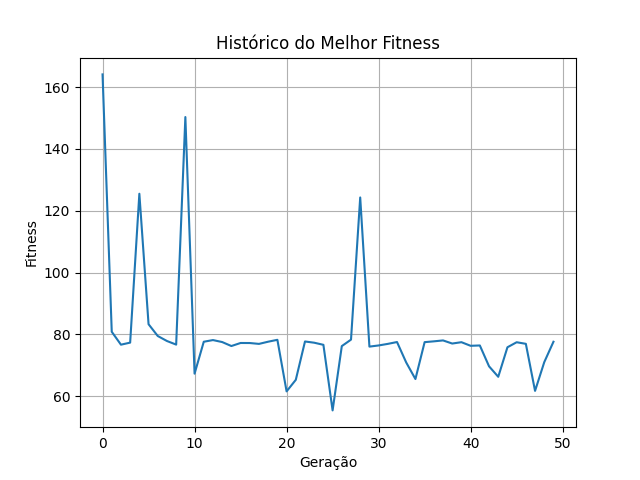
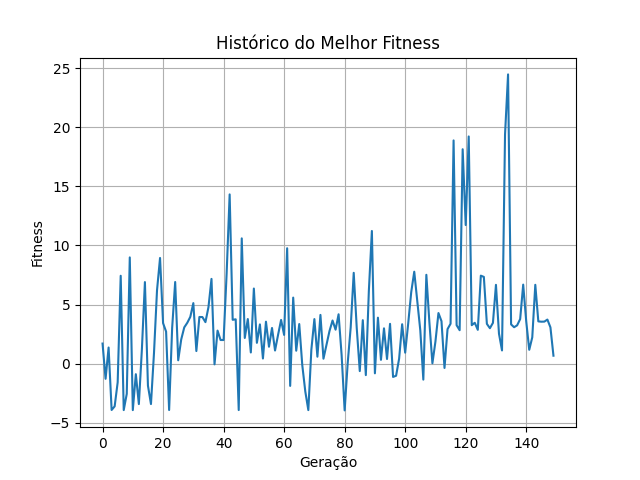
# TODO: O problema é a frequencia que o ep deve terminar. Deve terminar com mais frequência, exemplo;         # Vai sincronizar com o tempo de resposta do agente, em compensação. Isso é gambiarra. kkk

diff --git a/src/sprite.py b/src/sprite.py
@@ -99,9 +99,7 @@ class Agent(Paddle):
 
     def get_direction(self, action=None):
         if action is not None:
-            #self.rect.y += action * self.speed
-            #self.rect.centery += action * self.speed
-            self.direction += action * self.speed
+            self.rect.centery += action * self.speed
 
     def reset(self):
         super().reset(POS['ai'])
@@ -240,18 +238,18 @@ class Ball(pygame.sprite.Sprite):
             self.direction.y *= -1
 
         # out of bounds
-        # if self.rect.right >= WINDOW_WIDTH or self.rect.left <= 0:
-        #     scorer = 'player' if self.rect.x < WINDOW_WIDTH / 2 else 'opponent'
-        #     self.update_score(scorer)
+        if self.rect.right >= WINDOW_WIDTH or self.rect.left <= 0:
+            scorer = 'player' if self.rect.x < WINDOW_WIDTH / 2 else 'opponent'
+            self.update_score(scorer)
+            self.reset()
+
+        # if self.rect.right >= WINDOW_WIDTH:
+        #    self.rect.right = WINDOW_WIDTH
+        #    self.direction.x *= -1
+
+        # if self.rect.left <= 0:
+        #     self.rect.left = 0
         #     self.reset()
-
-        if self.rect.right >= WINDOW_WIDTH:
-           self.rect.right = WINDOW_WIDTH
-           self.direction.x *= -1
-
-        if self.rect.left <= 0:
-            self.rect.left = 0
-            #self.reset()
             # self.direction.x *= -1 # quick left
 
     def reset(self):

diff --git a/src/model/CustomPyEnv.py b/src/model/CustomPyEnv.py
@@ -148,8 +148,13 @@ class CustomPyEnvironment(PyEnvironment):
         distance = self.game.ball.get_distance(self.game.agent) / max_distance
 
         # Penalidade se a bola passa pelo agente
-        if self.game.ball.rect.left <= 0: # TODO: O estado do reinicio termina mais rápido do que o próprio timestep. Ainda não sei bem o porque disto
-            reward -= 3.0  # Penalidade maior
+        # if self.game.ball.rect.left < self.game.agent.rect.right:
+        #     reward -= 4.0  # Penalidade maior
+        #     done = True
+        
+        # TODO: O problema é a frequencia que o ep deve terminar. Deve terminar com mais frequência, exemplo; 
+        # Vai sincronizar com o tempo de resposta do agente, em compensação. Isso é gambiarra. kkk
+        if self.game.ball.rect.left > self.game.agent.rect.right:
             done = True
 
         # Recompensa significativa por colisão com a bola
@@ -162,11 +167,11 @@ class CustomPyEnvironment(PyEnvironment):
         # Pequena recompensa por se aproximar da bola
         reward += 0.1 / (distance + 1)
 
-        # Reseta o jogo se o episódio terminou
-
         if done:
-            self.game.reset_game()
+            #self.game.agent.reset()
+            pass
 
+        reward = max(-5.0, min(reward, 5.0))
         return reward, done
 
     def get_obs(self) -> np.ndarray:

diff --git a/src/Pong.py b/src/Pong.py
@@ -41,14 +41,14 @@ class Game:
                          ball_sprites=self.ball_sprites, 
                          particules_sprites=self.particules_sprites, update_score=self.update_score)
         
-        #self.player = Player((self.all_sprites, self.paddle_sprites), ball=self.ball)
+        self.player = Player((self.all_sprites, self.paddle_sprites), ball=self.ball)
         #self.opponent = Opponent((self.all_sprites, self.paddle_sprites), ball=self.ball)
 
         # agent
         self.agent = Agent((self.all_sprites, self.paddle_sprites), ball=self.ball_sprites)
         self.evo_agent = EvoAgent(
                 env=CustomPyEnvironment(game=self),
-                population_size=15,
+                population_size=50,
                 num_generations=150,
                 mutation_rate=0.2, 
                 elite_fraction=0.2,
@@ -97,12 +97,6 @@ class Game:
         except FileNotFoundError:
             self.score = {'player': 0, 'opponent': 0}
             self.save_score()
-
-    def reset_game(self):
-        self.load_score(reset=True)
-        #self.ball.reset()
-        #self.player.reset()
-        #self.agent.reset()
 
     def run(self):
         while self.runing:
